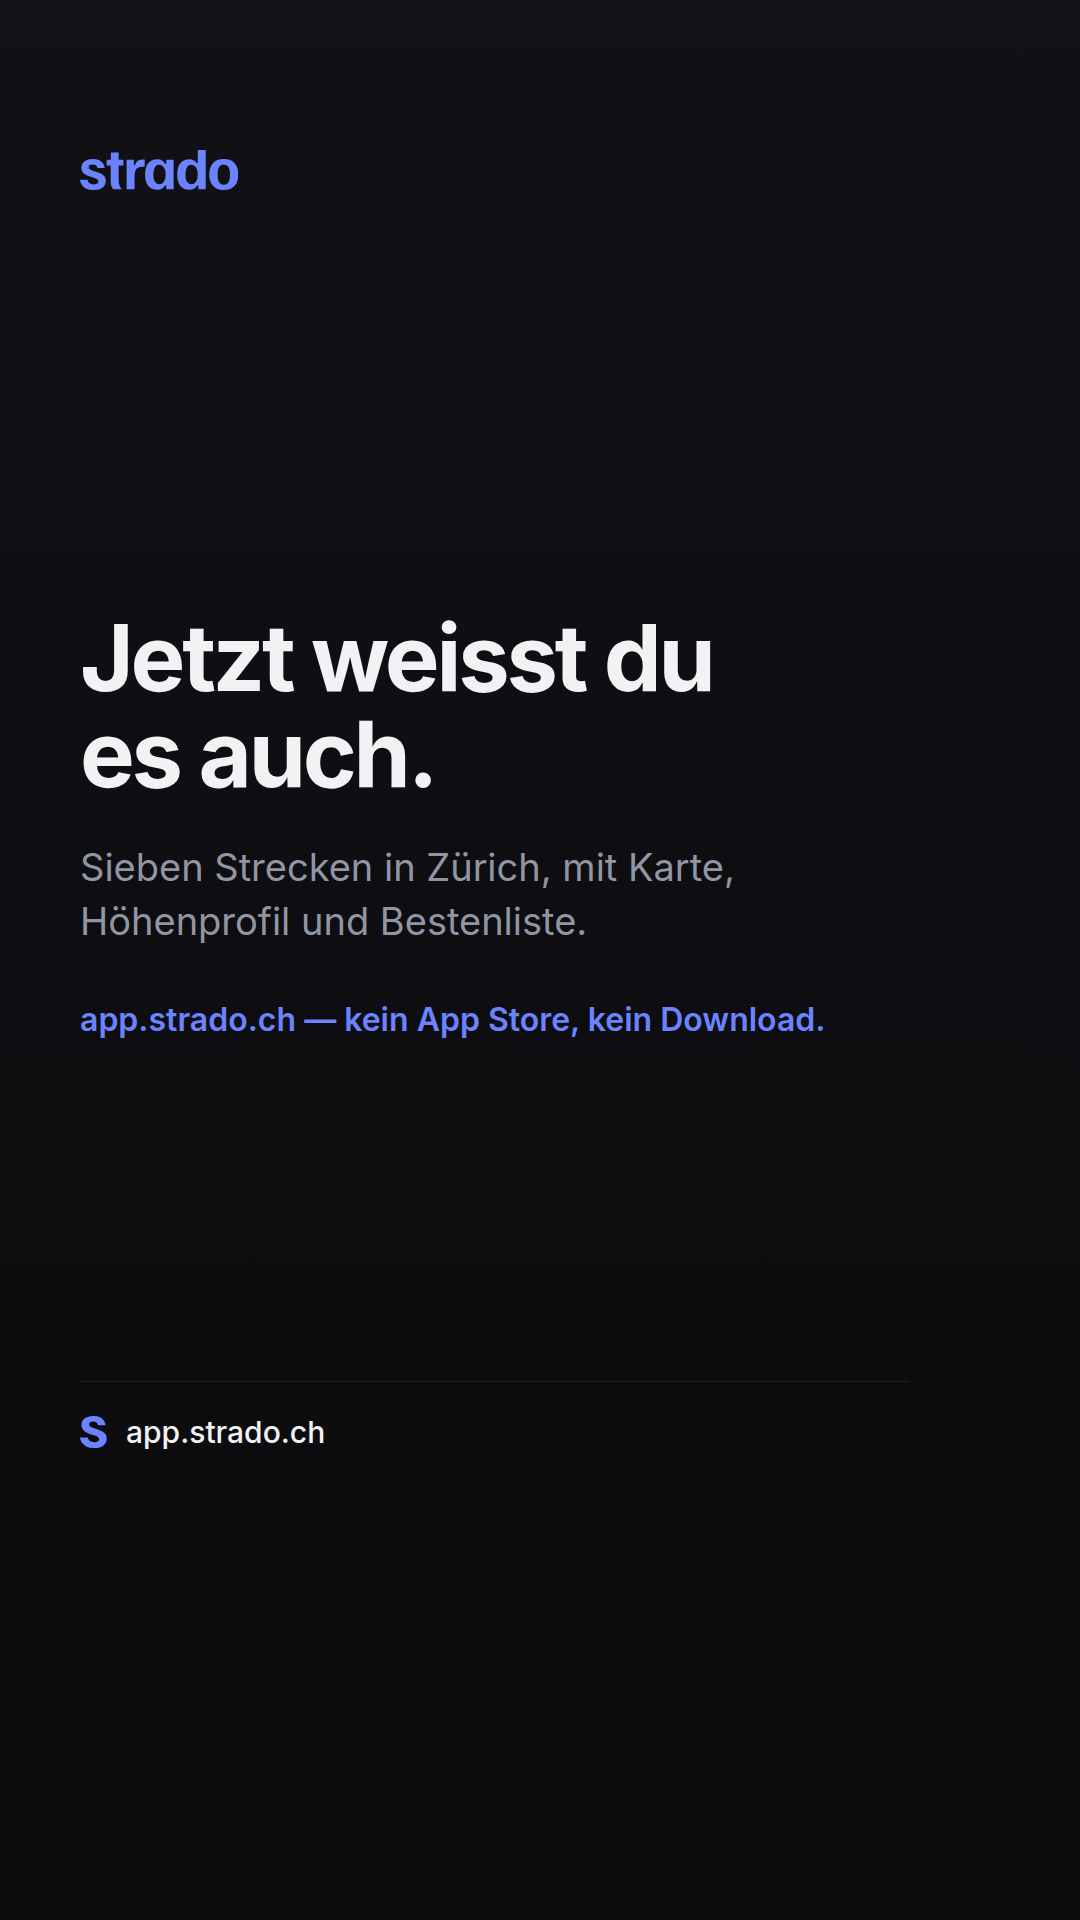
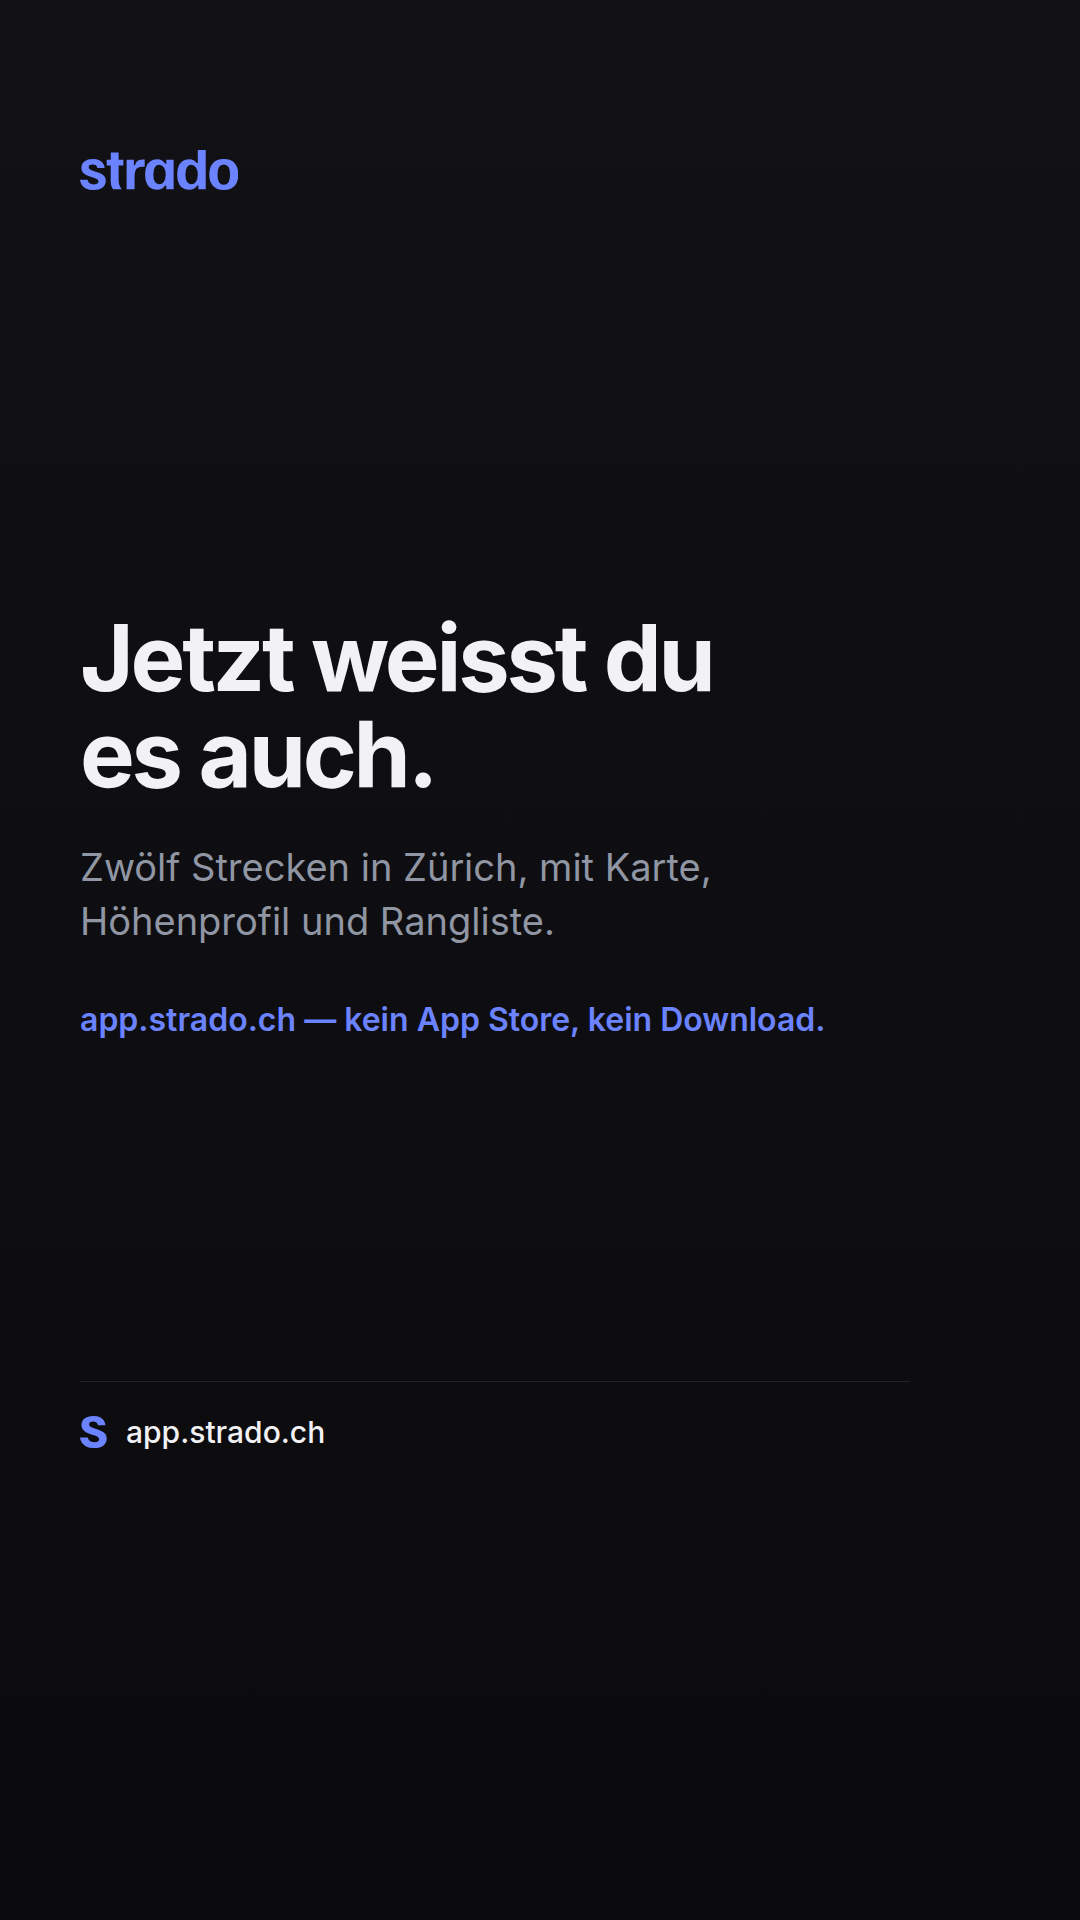
Flughafen Loop statt Binzmer Backfire in allen drei Slideshows
Binzmer Backfire kam in allen drei Slideshows vor und ist überall durch
Flughafen Loop ersetzt: 22.5 km, 445 m, 3.7 %, 9 Kehren, Rundfahrt ab
Oberglatt ZH.

Die Strecke fehlte bisher im Marketing-Ordner — sie ist eine der fünf,
die die App führt und instagram/daten.mjs nicht kannte. Kennzahlen und
Höhenprofil kommen aus derselben öffentlichen API wie die Verläufe, der
Eintrag steht bei den anderen in STRECKEN. Die Region meldet die API als
"Kanton Zürich"; im Eintrag steht "Zürich", wie bei den übrigen Strecken.

Damit wird "Sieben Strecken" falsch: Flughafen Loop gehörte nicht zu
diesen sieben. Die Zahl steht jetzt auf zwölf — so viele freigegebene
Strecken liefert /api/strecken. Betroffen waren die Hook-Unterzeile von
Slideshow 01, zwei Schluss-Slides, die Kommentar-Slide von Slideshow 02
und drei Stellen in captions.md.

instagram/daten.mjs wird nur um den STRECKEN-Eintrag ergänzt; POSTS
bleibt unberührt, und die 19 Instagram-Grafiken sind byte-identisch
(md5 gegen den Stand vor der Änderung). Die dortigen Captions sprechen
weiterhin von sieben Strecken — eigener Kanal, eigene Entscheidung,
nicht Teil dieser Änderung.

Geprüft: hole-verlaeufe.mjs (8 Verläufe, 7809 → 924 Punkte), beide
Renderer gelaufen, Flughafen-Slide gesichtet. npm run lint sauber,
npm run test 465 Tests in 42 Dateien grün, npm run build erfolgreich.

Claude-Session: https://claude.ai/code/session_01B3xXCD8aiDi6Nc4nKFVuBz

Changed region(s): [[0.0611, 0.4375, 0.6722, 0.5]]

diff --git a/docs/marketing/tiktok/captions.md b/docs/marketing/tiktok/captions.md
@@ -31,7 +31,7 @@ riskant nicht dasselbe ist — siehe „Wo die Grenze liegt".
 | 8 | „Ich habe jede Kurve in Zürich vermessen." | Autoritäts-Hook, das TikTok-Format schlechthin. Und es stimmt: die Zahlen sind gerechnet, nicht geschätzt. | Nur solange es stimmt. Bei einer neuen Strecke ohne Vermessung fällt der Satz in sich zusammen. |
 | 9 | „Deine Lieblingsstrecke steht in einem Chatverlauf von 2021." | Sehr spezifisch, deshalb wahr für viele. Beste Kommentar-Quote der Liste. | — |
 | 10 | „Niemand fragt dich, was du fährst. Nur wo." | Identität statt Technik. Am nächsten an der Marke. | Am wenigsten provokativ — gut als zweiter Post, schwach als erster. |
-| 11 | „Sieben Strecken in Zürich. Auf fünf davon warst du noch nie." | Zahl plus Wette. Lädt zum Gegenbeweis in den Kommentaren ein. | — |
+| 11 | „Zwölf Strecken in Zürich. Auf zehn davon warst du noch nie." | Zahl plus Wette. Lädt zum Gegenbeweis in den Kommentaren ein. | — |
 | 12 | „Strava kennt jeden Veloweg. Und keine einzige gute Kurve." | Vergleichs-Hook, zieht am meisten Reichweite und am meisten Streit. | Vergleichende Werbung ist zulässig, solange sie nicht herabsetzend oder irreführend ist (Art. 3 Abs. 1 lit. e UWG). Diese Formulierung beschreibt einen Unterschied — „Strava ist Müll" wäre die andere Seite der Linie. |
 | 13 | „Kein App Store. Kein Abo. Link auf und fahren." | Konvertiert am besten von allen. | Provoziert null. Gehört auf die letzte Slide, nicht auf die erste. |
 
@@ -87,7 +87,7 @@ Ranglisten-Slide zeigt, wogegen.
 
 > Deine Zeit ist gut. Bis du sie vergleichst.
 >
-> Sieben Strecken in Zürich, alle vermessen: Streckenverlauf, Länge,
+> Zwölf Strecken in Zürich, alle vermessen: Streckenverlauf, Länge,
 > Höhenmeter, maximale Steigung, Kehren. Nicht geschätzt, sondern aus den
 > Daten der Strecke gerechnet.
 >
@@ -115,7 +115,7 @@ zielt und nicht auf Klicks.
 
 > Du wohnst seit Jahren in Zürich. Und kennst drei Strassen.
 >
-> Binzmer Backfire, Dietlikon Dash, Greifensee Schleife, Nordwestschleife,
+> Flughafen Loop, Dietlikon Dash, Greifensee Schleife, Nordwestschleife,
 > A3 Asphalt — mit Streckenverlauf, Kehren und Steigung. Alle vermessen.
 >
 > Und jetzt die Frage, wegen der ich das poste: welche fehlt? Schreib sie in
